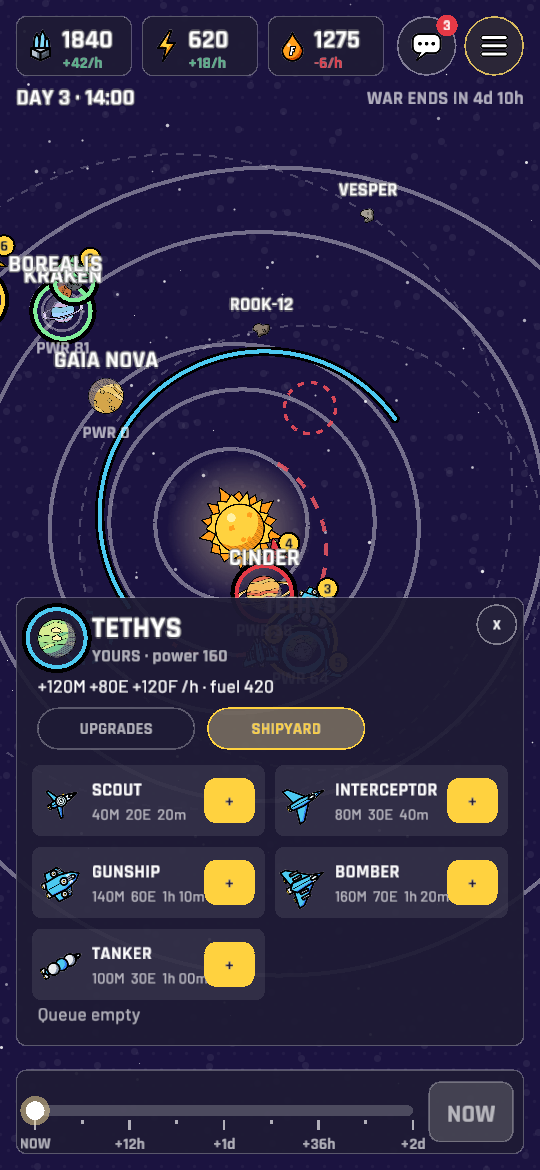
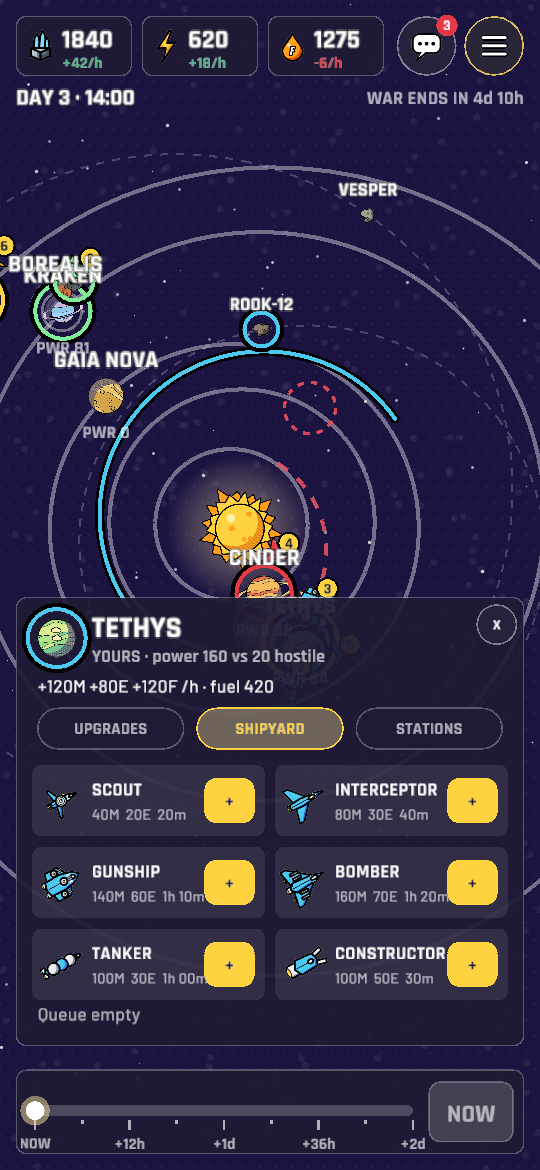
ui+client: Constructor class (tug art), BUILD STATION from a parked constructor, stations sheet shows crew/speed and build progress

diff --git a/crates/ui/src/game/research.rs b/crates/ui/src/game/research.rs
@@ -229,13 +229,20 @@ pub fn stations_sheet(g: &mut GameScreen, inp: &mut Input, be: &dyn Backend, vie
     let pad = 16.0 * s();
     let name = view.body(body).map(|b| b.name.to_uppercase()).unwrap_or_default();
     inked("STATIONS", r.x + pad, r.y + 22.0 * s(), 22.0, PAPER, Align::Left);
-    text(&format!("in orbit of {name}"), r.x + pad, r.y + 44.0 * s(), 13.0, MUTED, FontKind::Title, Align::Left);
     if close_x(inp, r) {
         g.stations_for = None;
         art::sfx("menu_close");
         return;
     }
     let Some(sv) = be.stations(body) else { return };
+    // Crew line: who is building here and how fast.
+    let yard = sv.workers > sv.constructors;
+    let crew = match (sv.constructors, yard) {
+        (0, false) => "no construction ships here".to_string(),
+        (0, true) => "your shipyard builds at 1×".to_string(),
+        (n, y) => format!("{n} construction ship{}{} · {}× speed", if n == 1 { "" } else { "s" }, if y { " + shipyard" } else { "" }, sv.workers),
+    };
+    text(&format!("in orbit of {name} · {crew}"), r.x + pad, r.y + 44.0 * s(), 13.0, if sv.present { MUTED } else { DANGER }, FontKind::Title, Align::Left);
 
     // Existing stations as a row of small icons.
     let mut x = r.x + pad;
@@ -246,17 +253,31 @@ pub fn stations_sheet(g: &mut GameScreen, inp: &mut Input, be: &dyn Backend, vie
     for st in &sv.here {
         let c = vec2(x + 12.0 * s(), y);
         let tint = if st.building_until.is_some() { Color::new(1.0, 1.0, 1.0, 0.45) } else { WHITE };
+        if st.building_until.is_some() {
+            // progress ring under the icon
+            draw_circle_lines(c.x, c.y, 14.0 * s(), 2.0 * s(), Color::new(1.0, 1.0, 1.0, 0.15));
+            let n = 24;
+            let k = (st.progress * n as f32).round() as i32;
+            for j in 0..k {
+                let a0 = -std::f32::consts::FRAC_PI_2 + j as f32 / n as f32 * std::f32::consts::TAU;
+                let a1 = a0 + std::f32::consts::TAU / n as f32;
+                let p0 = c + vec2(a0.cos(), a0.sin()) * 14.0 * s();
+                let p1 = c + vec2(a1.cos(), a1.sin()) * 14.0 * s();
+                draw_line(p0.x, p0.y, p1.x, p1.y, 2.5 * s(), ACCENT);
+            }
+        }
         if !icon(&format!("station_{}", snake(&st.kind)), c, 24.0 * s(), tint) {
             cel::diamond(c, 8.0 * s(), team(view.player(st.owner).map(|p| p.color)).0);
         }
         let mine = st.owner == view.me;
         draw_circle(c.x + 9.0 * s(), c.y + 9.0 * s(), 3.5 * s(), if mine { team(view.player(view.me).map(|p| p.color)).0 } else { DANGER });
         let label = match st.building_until {
-            Some(t) => fmt_dur(t - view.now),
+            Some(t) if t.is_infinite() => format!("{:.0}% paused", st.progress * 100.0),
+            Some(t) => format!("{:.0}% · {}", st.progress * 100.0, fmt_dur(t - view.now)),
             None => format!("{:.0}%", st.hp * 100.0),
         };
         text(&label, c.x + 16.0 * s(), y, 11.0, MUTED, FontKind::Title, Align::Left);
-        x += 26.0 * s() + measure(&label, FontKind::Title, 11.0).x + 8.0 * s();
+        x += 30.0 * s() + measure(&label, FontKind::Title, 11.0).x + 10.0 * s();
         if x > r.x + r.w - 60.0 * s() {
             break;
         }
@@ -287,7 +308,7 @@ pub fn stations_sheet(g: &mut GameScreen, inp: &mut Input, be: &dyn Backend, vie
         text(&o.name.to_uppercase(), cr.x + 40.0 * s(), cr.y + cr.h * 0.36, 13.0, if blocked { MUTED } else { PAPER }, FontKind::Title, Align::Left);
         let sub = match &o.blocker {
             Some(b) => b.clone(),
-            None => format!("{}M {}E {}", fmt_amount(o.cost.matter), fmt_amount(o.cost.energy), fmt_dur(o.cost.seconds)),
+            None => format!("{}M {}E {}", fmt_amount(o.cost.matter), fmt_amount(o.cost.energy), fmt_dur(o.cost.seconds / sv.workers.max(1) as f64)),
         };
         let sub_w = cr.w - 40.0 * s() - 48.0 * s();
         let sub = wrap(&sub, FontKind::Body, 11.0, sub_w).into_iter().next().unwrap_or_default();
@@ -307,7 +328,7 @@ pub fn stations_sheet(g: &mut GameScreen, inp: &mut Input, be: &dyn Backend, vie
             art::sfx("menu_select");
         }
     }
-    let foot = info.unwrap_or_else(|| if sv.present { "Tap a station for details.".into() } else { "Park a ship here to build stations.".into() });
+    let foot = info.unwrap_or_else(|| if sv.present { "Tap a station for details. More construction ships here build faster.".into() } else { "Send a construction ship here to build stations.".into() });
     for (k, line) in wrap(&foot, FontKind::Body, 12.0, r.w - 2.0 * pad).into_iter().take(2).enumerate() {
         text(&line, r.x + pad, r.y + r.h - 32.0 * s() + k as f32 * 16.0 * s(), 12.0, MUTED, FontKind::Body, Align::Left);
     }

diff --git a/crates/ui/src/demo.rs b/crates/ui/src/demo.rs
@@ -557,12 +557,13 @@ impl Backend for DemoBackend {
             }
             UiAction::BuildStation { body, kind } => {
                 let now = self.now();
+                let workers = self.stations(body).map(|v| v.workers).unwrap_or(1).max(1) as f64;
                 if let Some(i) = STATION_KINDS.iter().position(|k| *k == kind) {
                     let c = demo_station_cost(i);
                     if let Some(v) = self.view.as_mut() {
                         v.resources.matter -= c.matter;
                         v.resources.energy -= c.energy;
-                        self.stations.push((body, kind, v.me, now + c.seconds));
+                        self.stations.push((body, kind, v.me, now + c.seconds / workers));
                     }
                 }
             }
@@ -648,12 +649,18 @@ impl Backend for DemoBackend {
     fn stations(&self, id: BodyId) -> Option<StationsView> {
         let v = self.view.as_ref()?;
         let now = self.now();
-        let present = v.body(id)?.owner == Some(v.me) || v.ships.iter().any(|s| s.owner == v.me && s.parked_at == Some(id) && s.trajectory.is_none());
+        let constructors: usize = v.ships.iter().filter(|s| s.owner == v.me && s.class == ShipClass::Constructor && s.parked_at == Some(id) && s.trajectory.is_none()).map(|s| s.count as usize).sum();
+        let workers = (constructors + (v.body(id)?.owner == Some(v.me)) as usize).min(6);
+        let present = workers > 0;
         let here = self
             .stations
             .iter()
             .filter(|s| s.0 == id)
-            .map(|s| StationInfo { kind: s.1.clone(), owner: s.2, building_until: (s.3 > now).then_some(s.3), hp: 1.0 })
+            .map(|s| {
+                let total = demo_station_cost(STATION_KINDS.iter().position(|k| *k == s.1).unwrap_or(0)).seconds / workers.max(1) as f64;
+                let progress = (1.0 - (s.3 - now) / total).clamp(0.0, 1.0) as f32;
+                StationInfo { kind: s.1.clone(), owner: s.2, building_until: (s.3 > now).then_some(s.3), progress, hp: 1.0 }
+            })
             .collect();
         let scanning = self.techs_done.contains(&17);
         let platforms = self.techs_done.contains(&15);
@@ -662,7 +669,7 @@ impl Backend for DemoBackend {
             .enumerate()
             .map(|(i, k)| {
                 let blocker = if !present {
-                    Some("needs a ship in orbit".to_string())
+                    Some("needs a construction ship in orbit".to_string())
                 } else if (*k == "Scanner" || *k == "Relay") && !scanning {
                     Some("needs Scanning stations".to_string())
                 } else if *k == "Defense" && !platforms {
@@ -675,7 +682,7 @@ impl Backend for DemoBackend {
                 StationOption { kind: k.to_string(), name: DEMO_STATIONS[i].0.to_string(), desc: DEMO_STATIONS[i].1.to_string(), cost: demo_station_cost(i), blocker }
             })
             .collect();
-        Some(StationsView { here, options, present })
+        Some(StationsView { here, options, present, constructors, workers })
     }
 
     fn plan_impact_async(&self, asteroid: BodyId, target: BodyId) -> crate::ImpactPoll {

diff --git a/crates/ui/examples/demo.rs b/crates/ui/examples/demo.rs
@@ -71,16 +71,20 @@ fn setup(scene: &str, ui: &mut Ui, be: &mut DemoBackend) {
                     g.research_branch = if scene == "research" { 2 } else { 0 };
                 }
                 "stations" => {
+                    add_builders(be, 2, 2);
                     be.act(ui::UiAction::BuildStation { body: 2, kind: "Telescope".into() });
                     g.selected = Some(Focus::Body(2));
                     g.stations_for = Some(2);
                     g.station_pick = Some("FuelDepot".into());
                 }
                 "away" => {
-                    if let Some(sh) = be.view.as_mut().and_then(|v| v.ships.iter_mut().find(|s| s.id == 3)) {
-                        sh.parked_at = Some(3);
-                    }
+                    add_builders(be, 3, 1);
                     g.selected = Some(Focus::Body(3));
+                }
+                "builder" => {
+                    add_builders(be, 3, 3);
+                    g.selected = Some(Focus::Ship(90));
+                    g.mode = Mode::Target(90);
                 }
                 "rock" => g.selected = Some(Focus::Body(9)),
                 "res_energy" => g.res_open = Some(1),
@@ -128,6 +132,28 @@ fn setup(scene: &str, ui: &mut Ui, be: &mut DemoBackend) {
                 _ => {}
             }
         }
+    }
+}
+
+/// Park `n` construction ships (one stack, id 90) at a body.
+fn add_builders(be: &mut DemoBackend, body: BodyId, n: u32) {
+    if let Some(v) = be.view.as_mut() {
+        let me = v.me;
+        v.ships.push(Ship {
+            id: 90,
+            name: "Hardhats".into(),
+            class: ShipClass::Constructor,
+            owner: me,
+            count: n,
+            fuel: 120.0,
+            fuel_max: 120.0,
+            parked_at: Some(body),
+            trajectory: None,
+            nodes: vec![],
+            destination: None,
+            retreat: false,
+            seen_at: None,
+        });
     }
 }
 

diff --git a/crates/client/src/backend.rs b/crates/client/src/backend.rs
@@ -762,7 +762,7 @@ impl Backend for ClientBackend {
     fn body_info(&self, id: BodyId) -> Option<m::BodyInfo> {
         let g = self.game.as_ref()?;
         let b = SimBody(id);
-        let st = g.bodies.get(id as usize)?;
+        g.bodies.get(id as usize)?;
         let mine = st.owner == Some(self.me);
         let pending = |u: g::Upgrade| st.queue.iter().filter(|j| matches!(j.kind, g::JobKind::Upgrade(x) if x == u)).count() as u8;
         let upgrades = g::Upgrade::ALL
@@ -864,11 +864,12 @@ impl Backend for ClientBackend {
         let g = self.game.as_ref()?;
         let me = self.me;
         let b = SimBody(id);
-        let st = g.bodies.get(id as usize)?;
+        g.bodies.get(id as usize)?;
         if g.system.body(b).is_star() {
             return None;
         }
-        let present = st.owner == Some(me) || g.ships.iter().any(|s| s.owner == me && s.parked_at() == Some(b));
+        let workers = g.workers(me, b);
+        let present = workers > 0;
         let here = g
             .stations
             .iter()
@@ -876,7 +877,8 @@ impl Backend for ClientBackend {
             .map(|s| m::StationInfo {
                 kind: format!("{:?}", s.kind),
                 owner: s.owner,
-                building_until: (s.done_t > g.t).then_some(s.done_t),
+                building_until: s.building().then_some(s.done_t),
+                progress: if s.building() { (1.0 - s.work_left / s.kind.cost().2).clamp(0.0, 1.0) as f32 } else { 1.0 },
                 hp: (s.hp / s.kind.max_hp()) as f32,
             })
             .collect();
@@ -893,7 +895,7 @@ impl Backend for ClientBackend {
                 }
             })
             .collect();
-        Some(m::StationsView { here, options, present })
+        Some(m::StationsView { here, options, present, constructors: g.constructors_at(me, b), workers })
     }
 
     fn preview_nodes(&self, ship: ShipId, nodes: &[m::ManeuverNode]) -> Option<m::Trajectory> {

diff --git a/crates/ui/src/model.rs b/crates/ui/src/model.rs
@@ -373,8 +373,10 @@ pub struct StationInfo {
     /// One of `STATION_KINDS`.
     pub kind: String,
     pub owner: PlayerId,
-    /// Under construction until then.
+    /// Under construction: estimated finish (INFINITY = paused, no workers there).
     pub building_until: Option<f64>,
+    /// Construction progress 0..1 (1 when finished).
+    pub progress: f32,
     /// 0..1
     pub hp: f32,
 }
@@ -396,8 +398,12 @@ pub struct StationsView {
     /// Stations we know of in orbit here (ours always, others when sensors see them).
     pub here: Vec<StationInfo>,
     pub options: Vec<StationOption>,
-    /// We own the body or have a ship parked there, so building is possible at all.
+    /// We have workers here (constructors, or our own shipyard), so building is possible at all.
     pub present: bool,
+    /// Our construction ships parked here.
+    pub constructors: usize,
+    /// Workers on our sites here (constructors + our shipyard, capped); build speed multiplier.
+    pub workers: usize,
 }
 
 /// Station kinds (= sim `StationKind`), also the icon names `station_<lowercase>`.

diff --git a/crates/ui/src/game/panels.rs b/crates/ui/src/game/panels.rs
@@ -689,7 +689,15 @@ fn target_bar(g: &mut GameScreen, inp: &mut Input, view: &GameView, sh: &Ship) {
     let by = r.y + r.h - 52.0 * s();
     let bw = (r.w - 4.0 * 10.0 * s()) / 3.0;
     let b = |i: usize| Rect::new(r.x + 10.0 * s() + i as f32 * (bw + 10.0 * s()), by, bw, 42.0 * s());
-    if widgets::button(inp, b(0), "MANEUVER", Style::Secondary) {
+    // Construction ships in orbit build stations instead of plotting burns.
+    let site = sh.parked_at.filter(|_| sh.class == ShipClass::Constructor && !map::is_flying(sh, view.now));
+    if let Some(body) = site {
+        if widgets::button(inp, b(0), "BUILD STATION", Style::Primary) {
+            g.mode = Mode::Idle;
+            g.selected = Some(Focus::Body(body));
+            g.stations_for = Some(body);
+        }
+    } else if widgets::button(inp, b(0), "MANEUVER", Style::Secondary) {
         g.mode = Mode::Nodes(NodeEdit {
             ship: sh.id,
             nodes: if sh.nodes.is_empty() { vec![ManeuverNode { t: view.now + 1800.0, prograde: 0.0, radial: 0.0 }] } else { sh.nodes.clone() },
